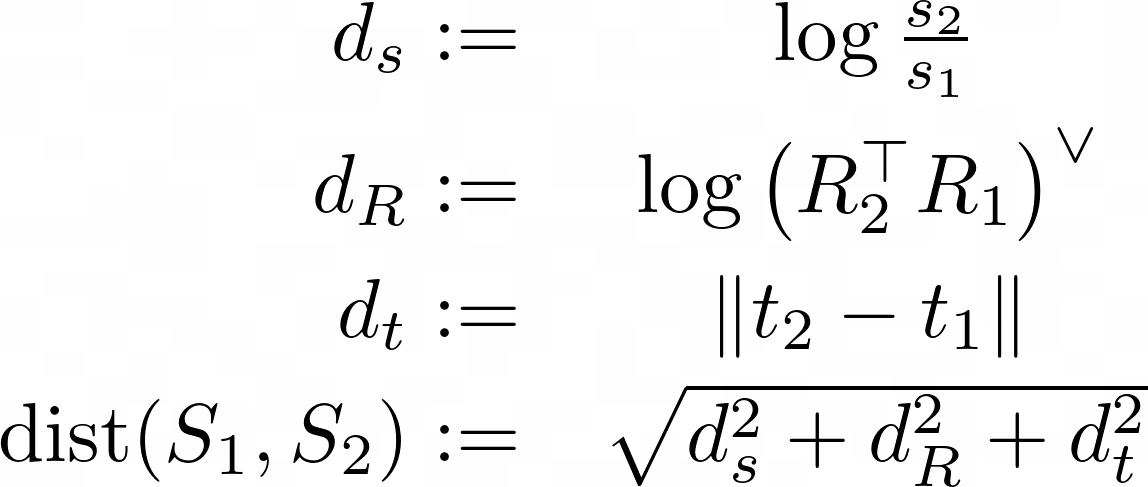
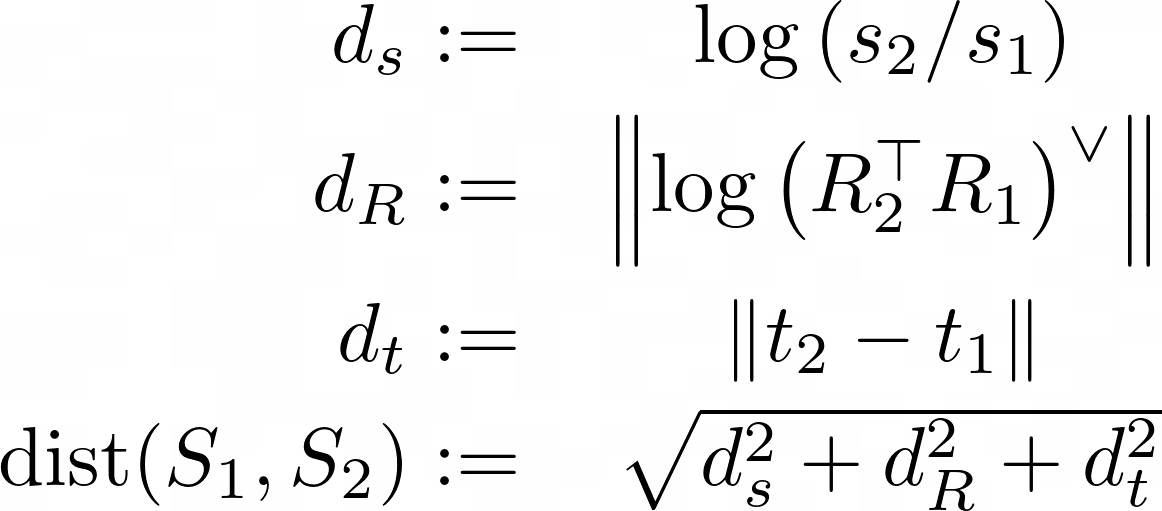
Fix relations for triple geodesic distance

diff --git a/report/calibration.tex b/report/calibration.tex
@@ -150,7 +150,7 @@ This nonconvexity is highly representative of the type encountered in calibratio
 
 \section{Current Approaches to Calibration}
 
-\textit{demonstrate G-N, L-M, etc. and why they can fail}
+\textit{talk about G-N, L-M, etc. and why they can fail}
 
 \section{Separability of Calibration Problems}
 
@@ -266,7 +266,7 @@ under known global scale \( s \) and known translation \( t \).  This is a \text
 	\{-1, 1\}^N \times \mathrm{Sim(3)}
 \end{equation*}
 
-which is nonconvex in the worst way: the feasible set is disjoint into \( 2^N \) possible points!  There in fact exists a polynomial-time convex formulation for this, which enables \textit{certifiable global optimality} despite not knowing which correspondences are inliers and which are outliers.  I've omitted the full mathematical derivation here, as it is \textit{quite} involved, but I encourage you to check out \cite{quasar} if you're curious.
+which is nonconvex in the worst way: the feasible set is disjoint into \( 2^N \) possible points!  There in fact exists a polynomial-time convex formulation for this, which enables \textit{certifiable global optimality} despite not knowing which correspondences are inliers and which are outliers.  I've omitted the full mathematical derivation here, as it is \textit{quite} involved, but I encourage you to check out \cite{quasar} if you're curious.  For the same reason, I have omitted an implementation of R-SRKC from the accompanying source code.
 
 I'd like to note that, in practice, robust SRKC can be achieved with not much difficulty using graduated non-convexity (GNC).  But I wanted to take the time to emphasize that you can in fact solve this to \textit{certifiable} global optimality by finding the right convex formulation.
 
